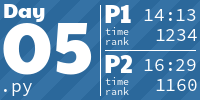
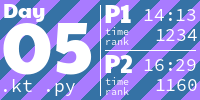
Add day 5

diff --git a/2022/05/05.kt b/2022/05/05.kt
@@ -1,0 +1,38 @@
+fun solve(input: String, moveTogether: Boolean) {
+    val (raw_towers, moves) = input.split("\n\n")
+    val towers = raw_towers.split("\n").dropLast(1).asReversed()
+    val stacks: MutableList<MutableList<Char>> = mutableListOf()
+
+    for (j in 1 until towers[0].length step 4) {
+        stacks.add(mutableListOf())
+        for (i in 0 until towers.size)
+            if (towers[i][j] != ' ')
+                stacks.last().add(towers[i][j])
+    }
+    val nums = moves
+        .split("\n")
+        .map {it.filter {!it.isLetter()}}
+        .map { it.split("  ")}
+        .map { it.map {it.trim().toInt()}}
+
+    for ((num, from, to) in nums) {
+        if (!moveTogether) 
+            for (i in 1..num)
+                stacks[to-1].add(stacks[from-1].removeLast())
+        else {
+            val tmp: MutableList<Char> = mutableListOf()
+            for (i in 1..num)
+                tmp.add(stacks[from-1].removeLast())
+            for (i in 1..num)
+                stacks[to-1].add(tmp.removeLast())
+
+        }
+    }
+    println(stacks.map { it.last() }.joinToString(""))
+}
+
+fun main() {
+    val input = generateSequence(::readlnOrNull).joinToString("\n")
+    solve(input, false)
+    solve(input, true)
+}

diff --git a/README.md b/README.md
@@ -18,7 +18,7 @@
 <a href="2022/04/04.kt">
   <img src="Media/2022/04.png" width="161px">
 </a>
-<a href="2022/05/05.py">
+<a href="2022/05/05.kt">
   <img src="Media/2022/05.png" width="161px">
 </a>
 <h1 align="center">
